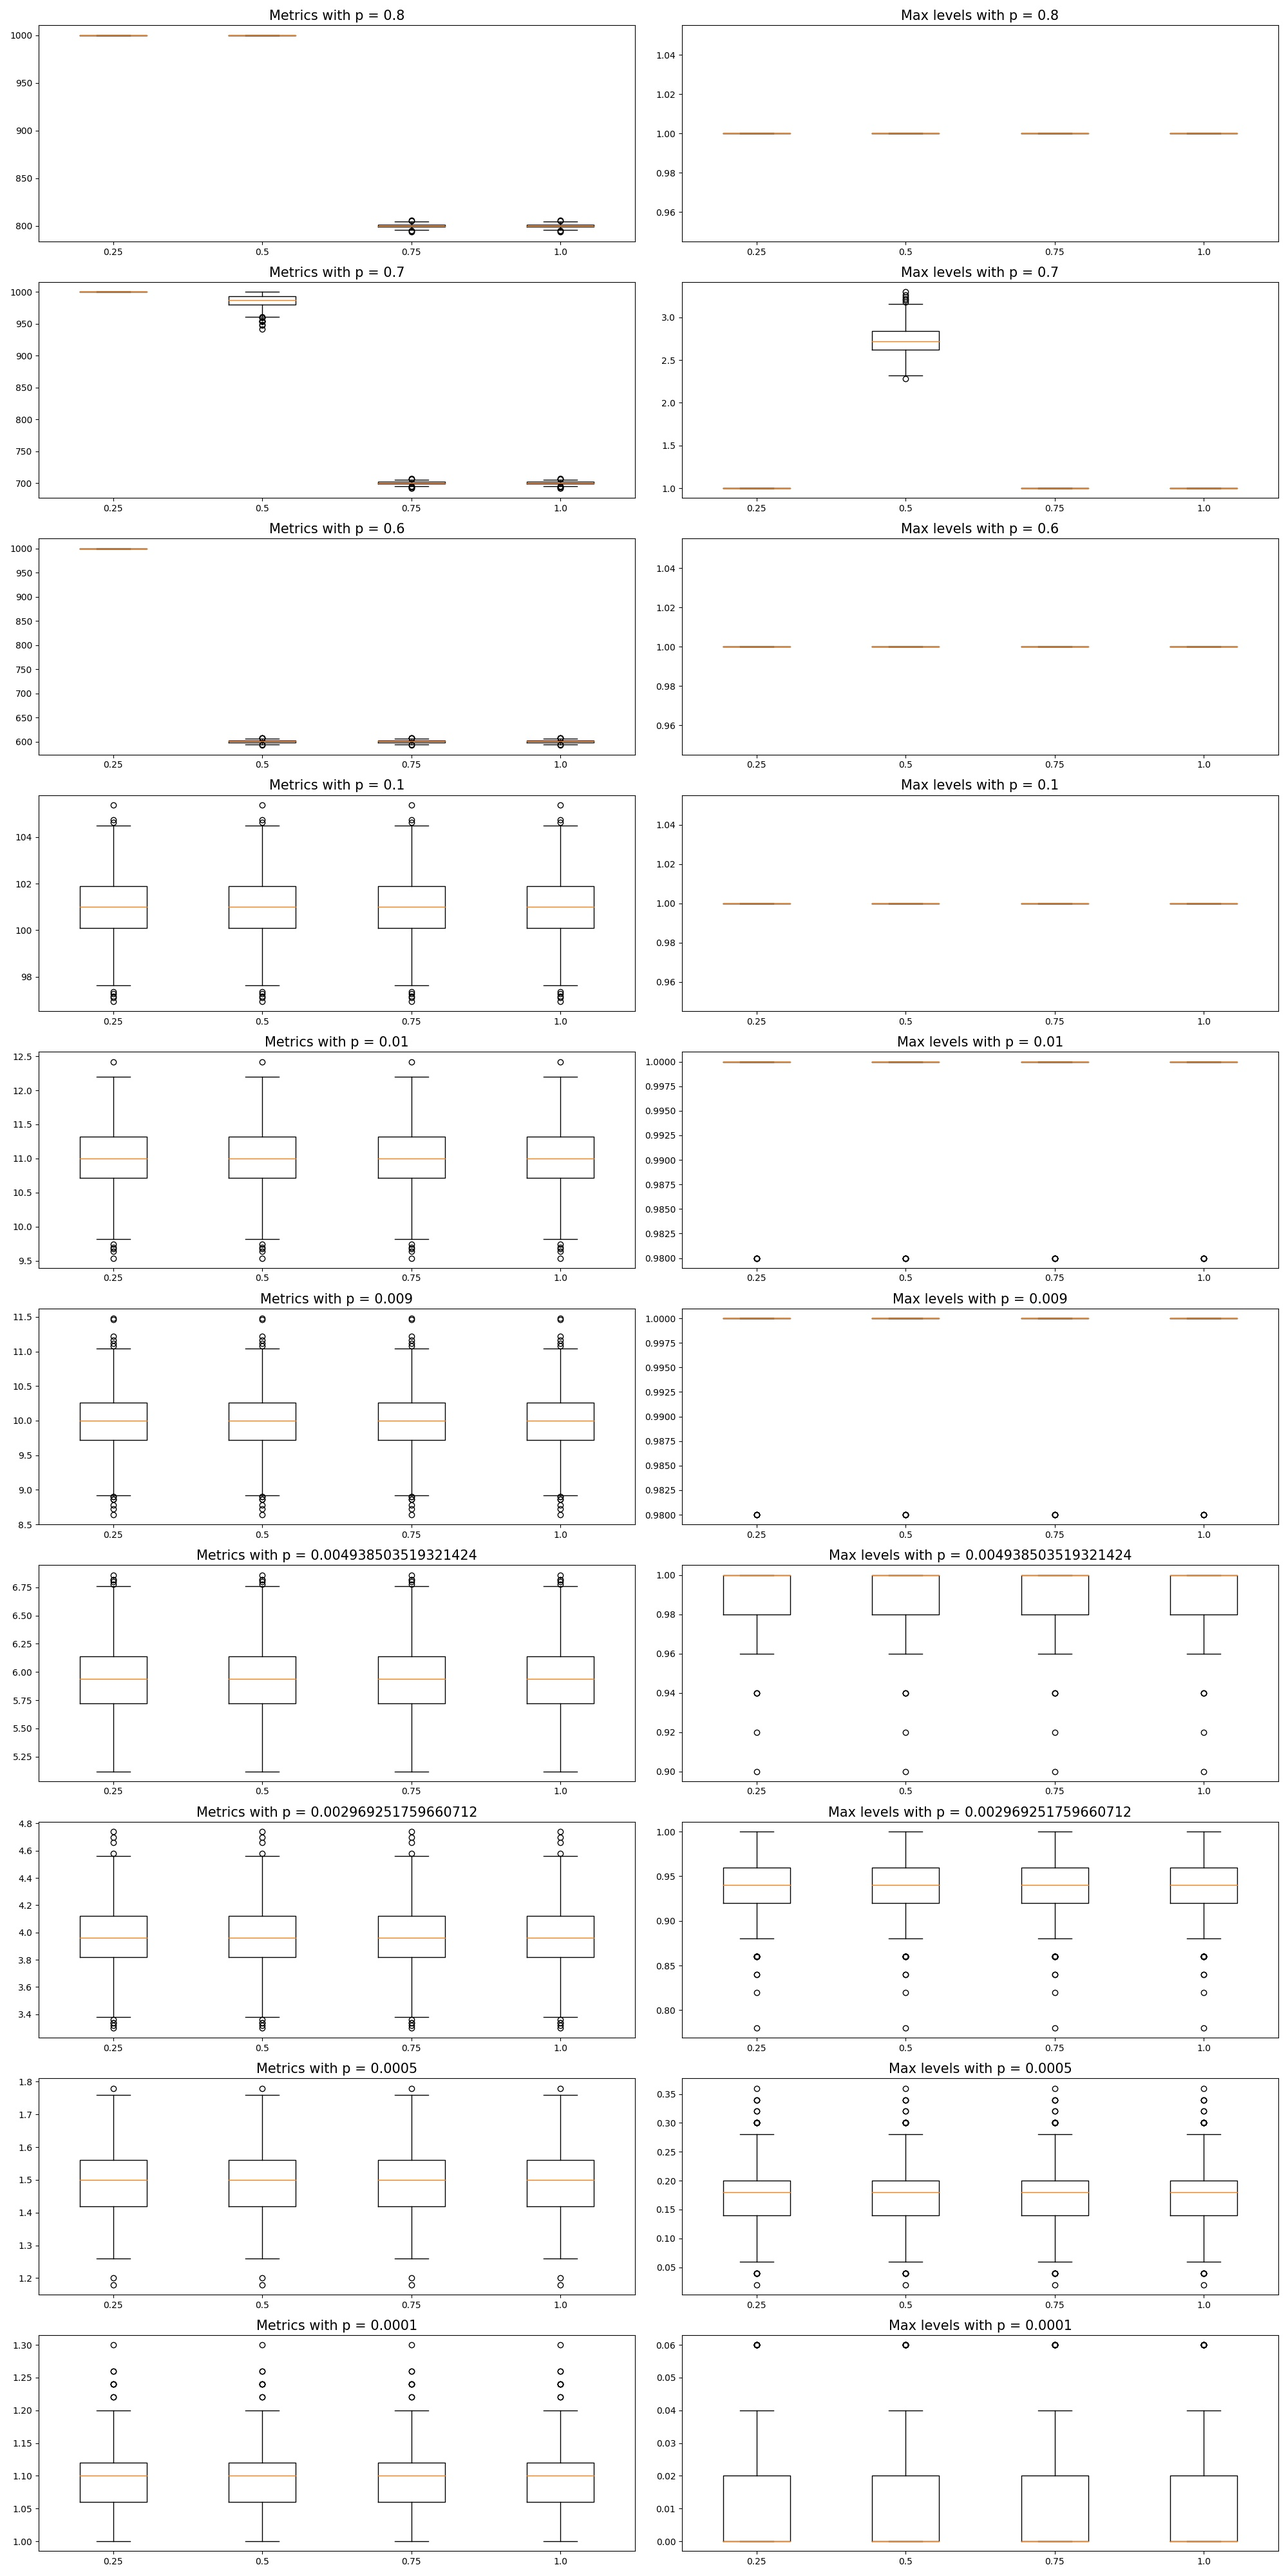
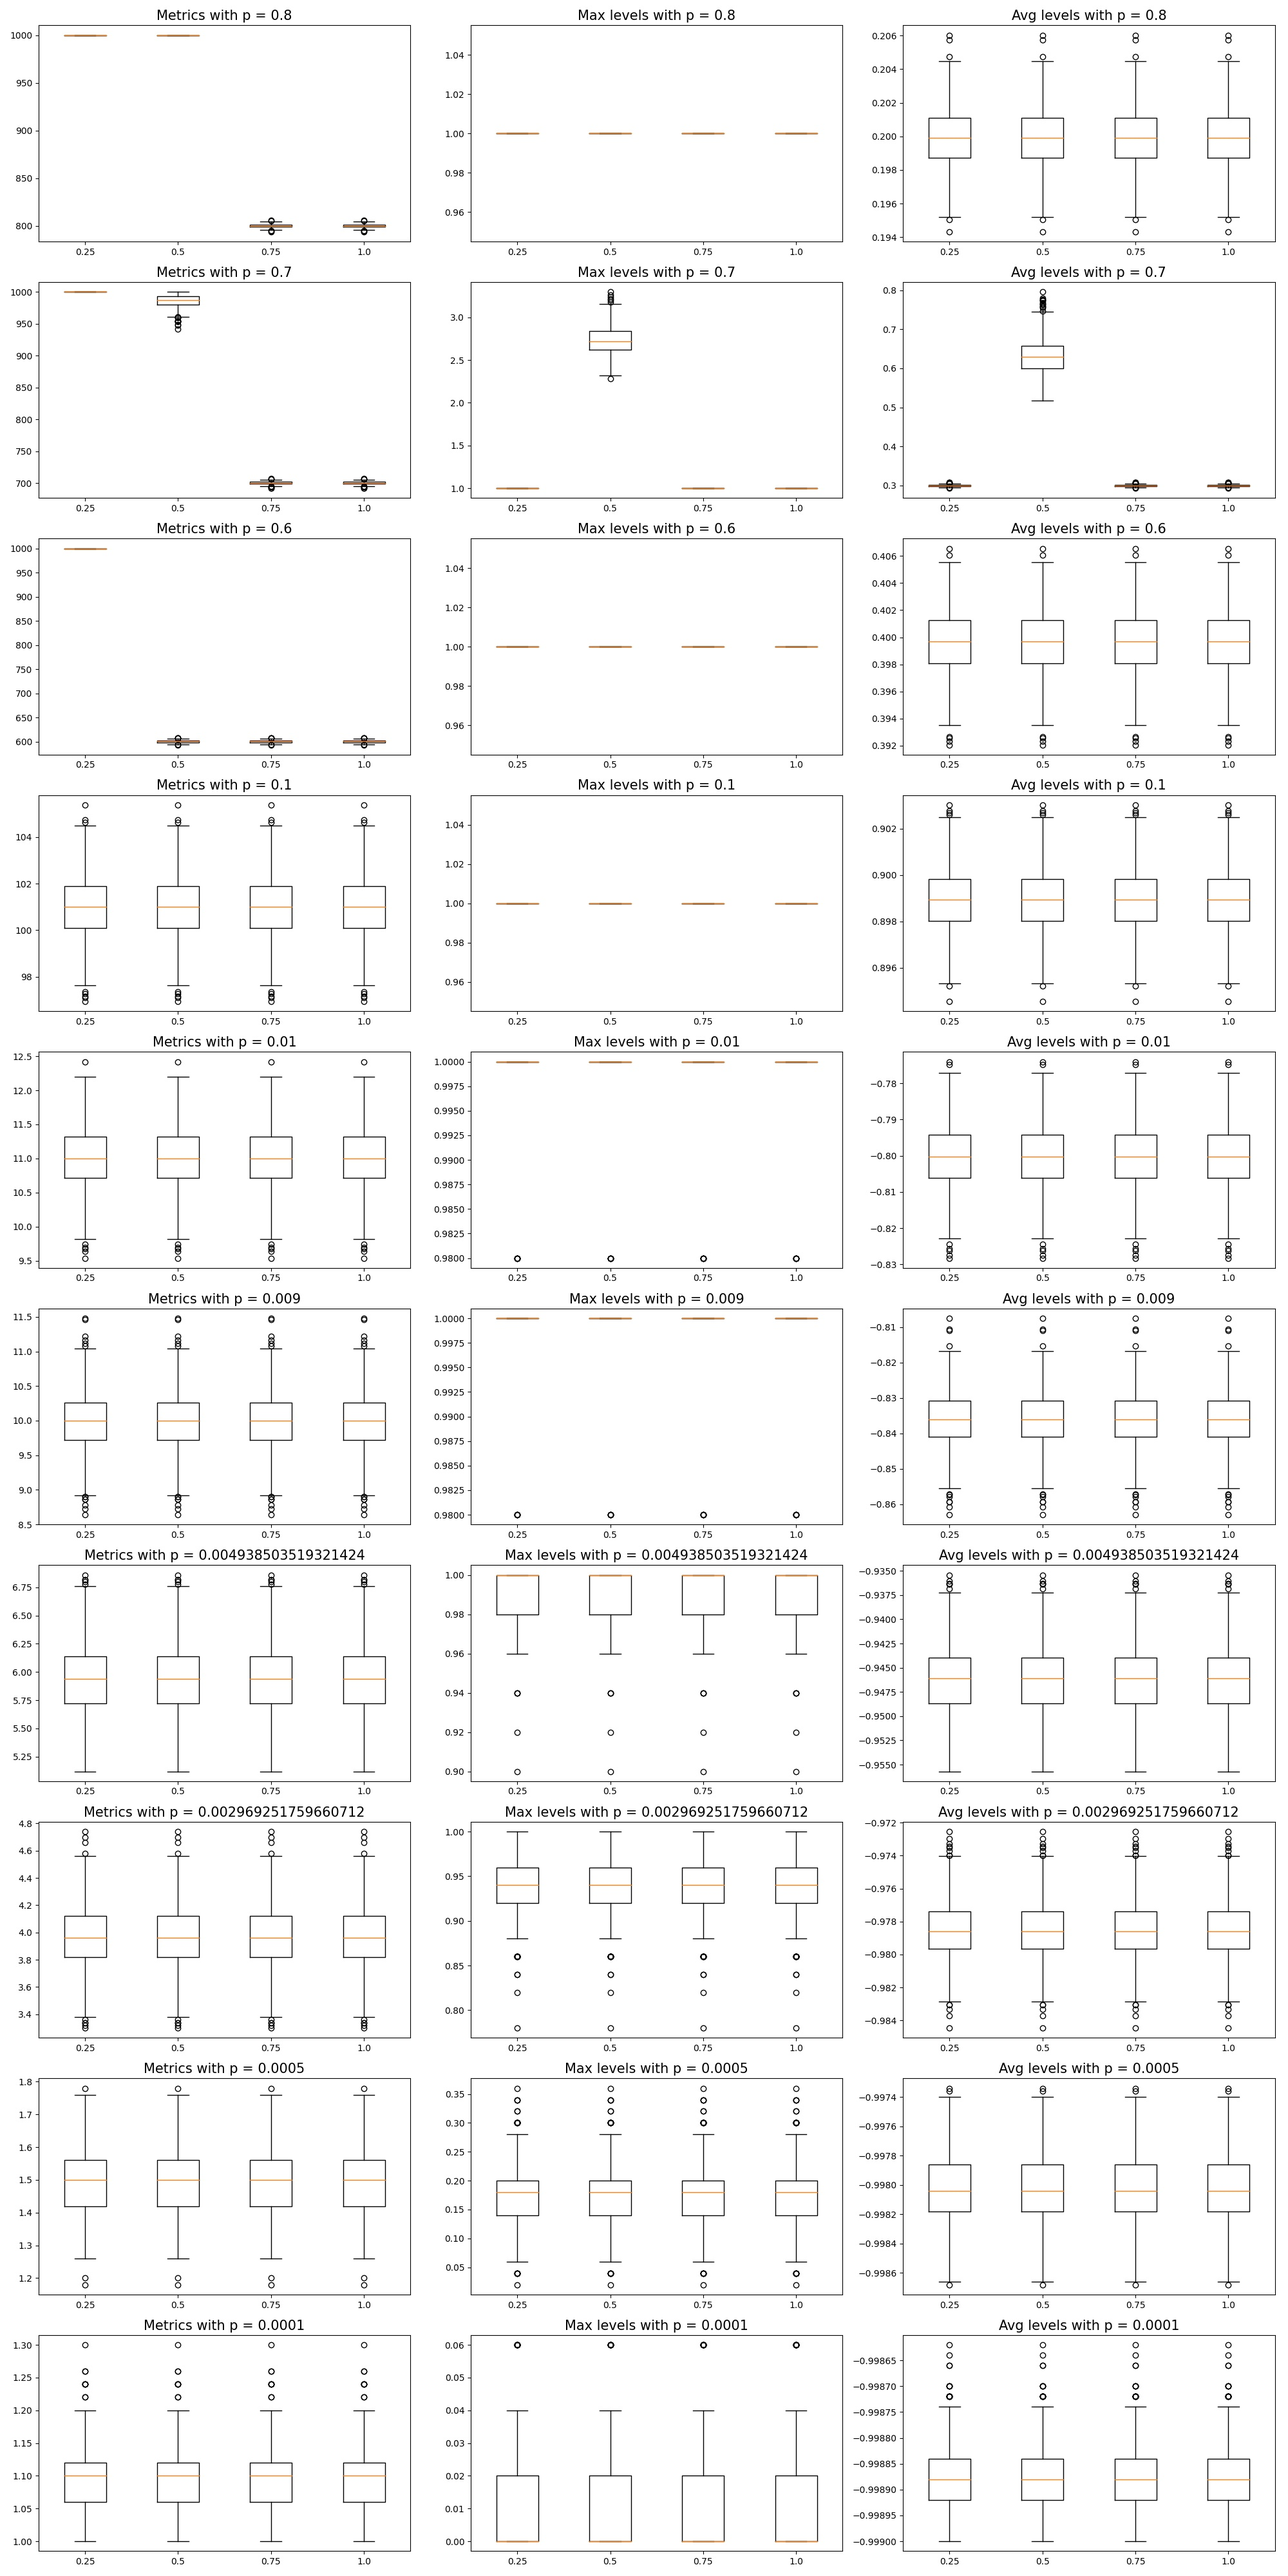
plot 10k maxpred & 1k 5k pred

diff --git a/plot.py b/plot.py
@@ -19,7 +19,7 @@ def plot_data_nodes(prob, directed, n, res, t):
         thr = 'maxpred'
     else : thr = 'pred'
 
-    fig, axs = plt.subplots(len(prob), 2, figsize = (20,40))
+    fig, axs = plt.subplots(len(prob), 3, figsize = (20,40))
     for i, p in enumerate(prob):
         # load data
         data = pd.read_csv('data/{}/data_node_{}_{}_{}.csv'.format(thr, lab, n, p))
@@ -28,6 +28,8 @@ def plot_data_nodes(prob, directed, n, res, t):
         _ = axs[i,0].boxplot([data.loc[data.resistance == k, 'metric'] for k in res], positions = [1,2,3,4], labels=res)
         axs[i,1].set_title('Max levels with p = {}'.format(p), fontsize=15)
         _ = axs[i,1].boxplot([data.loc[data.resistance == k, 'max_level'] for k in res], positions = [1,2,3,4], labels=res)
+        axs[i,2].set_title('Avg levels with p = {}'.format(p), fontsize=15)
+        _ = axs[i,2].boxplot([data.loc[data.resistance == k, 'avg_level'] for k in res], positions = [1,2,3,4], labels=res)
         # delete from memory
         del data
 
@@ -46,7 +48,7 @@ def plot_data_graphs(prob, directed, n, t):
         thr = 'maxpred'
     else: thr = 'pred'
 
-    fig, axs = plt.subplots(len(prob), 2, figsize = (20,40))
+    fig, axs = plt.subplots(len(prob), 3, figsize = (20,40))
     for i, p in enumerate(prob):
         # load data
         data = pd.read_csv('data/{}/data_graph_{}_{}_{}.csv'.format(thr, lab, n, p)).set_index('resistance')
@@ -55,6 +57,8 @@ def plot_data_graphs(prob, directed, n, t):
         data['metric'].transpose().plot(kind='line',ax=axs[i,0])
         axs[i,1].set_title('Max levels with p = {}'.format(p), fontsize=15)
         data['max_level'].transpose().plot(kind='line',ax=axs[i,1])
+        axs[i,2].set_title('Avg levels with p = {}'.format(p), fontsize=15)
+        data['avg_level'].transpose().plot(kind='line',ax=axs[i,2])
         # delete from memory
         del data
 
